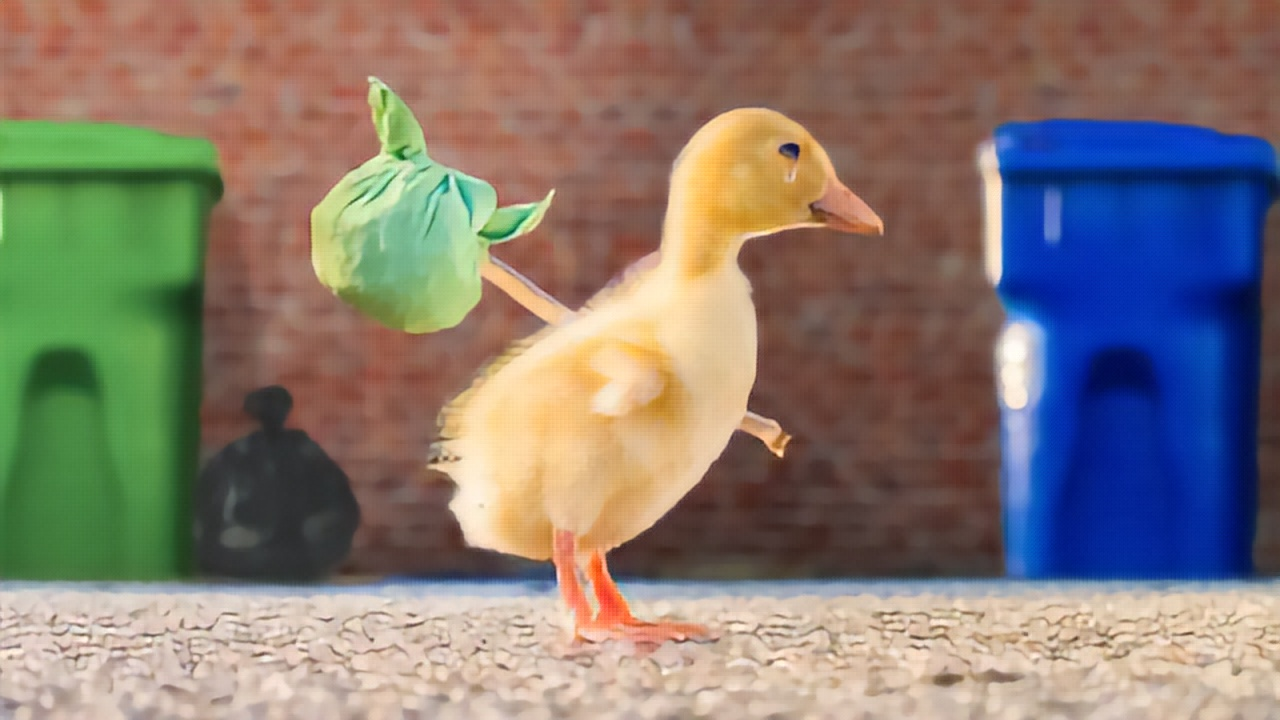
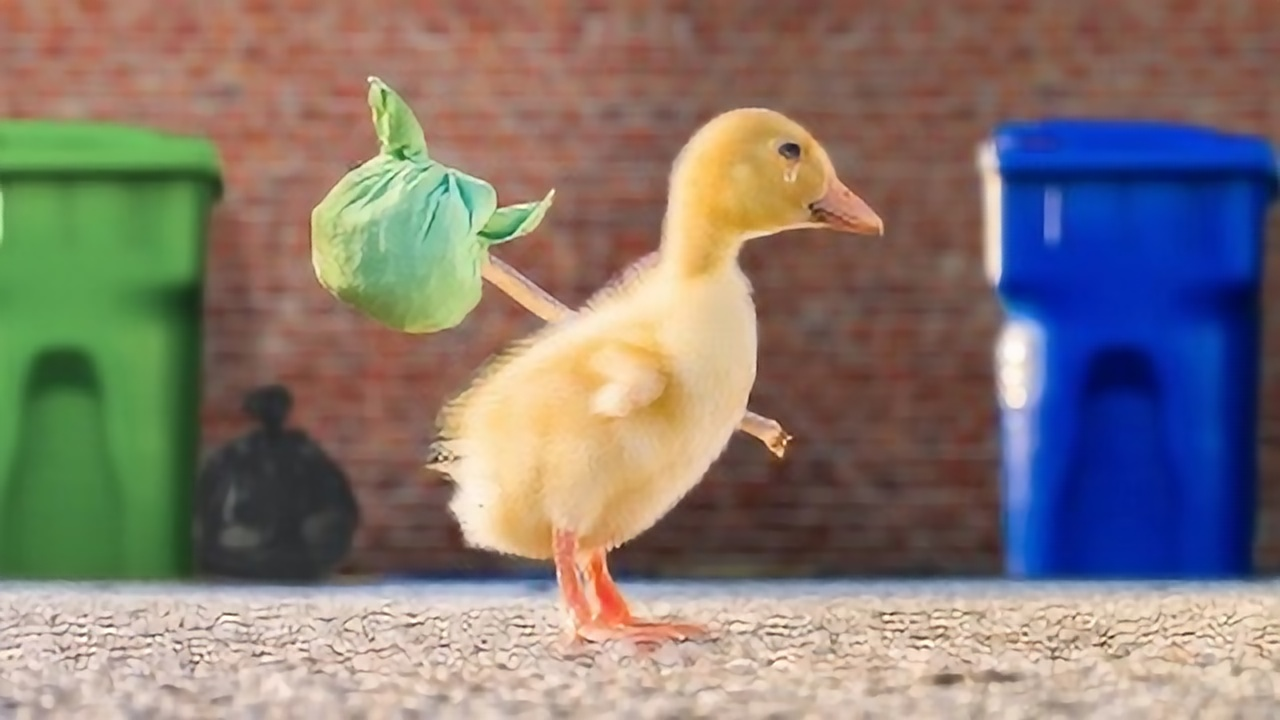
converted generator v4 model

diff --git a/sr_mobile_pytorch/inference.py b/sr_mobile_pytorch/inference.py
@@ -35,7 +35,7 @@ def inference(model_path: str, img_array: np.array) -> np.array:
 
 
 def main():
-    model_path = "./experiments/generator_v3/model.ort"
+    model_path = "./experiments/generator_v4/model.ort"
     path = "./assets"
     save_path = os.path.join(path, "output")
     os.makedirs(save_path, exist_ok=True)
